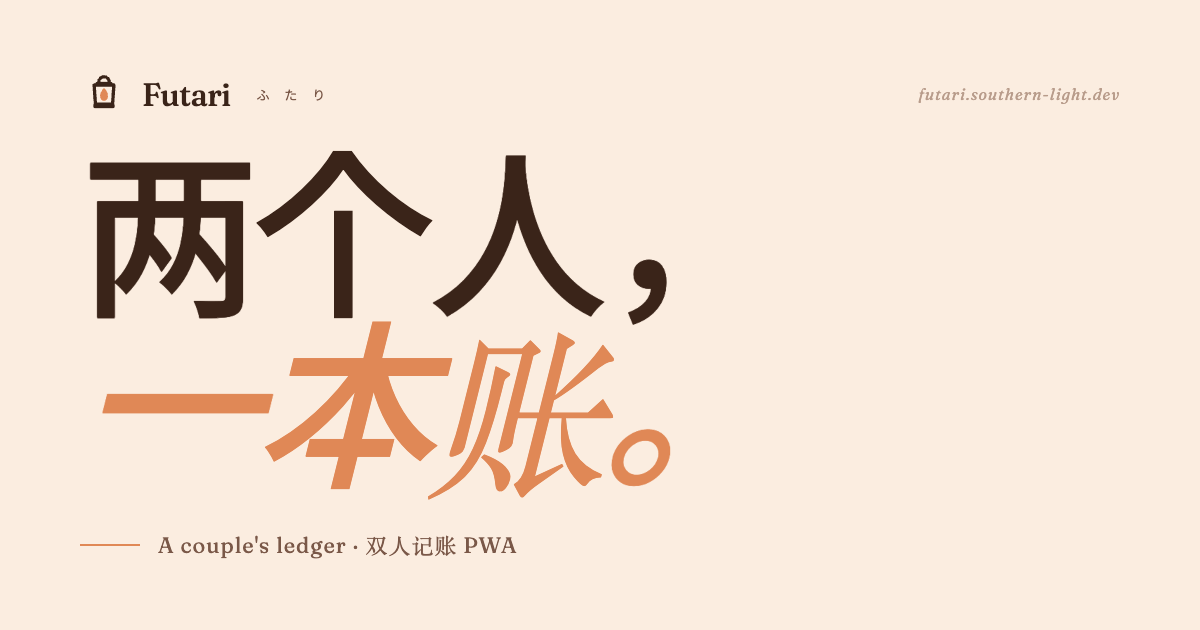
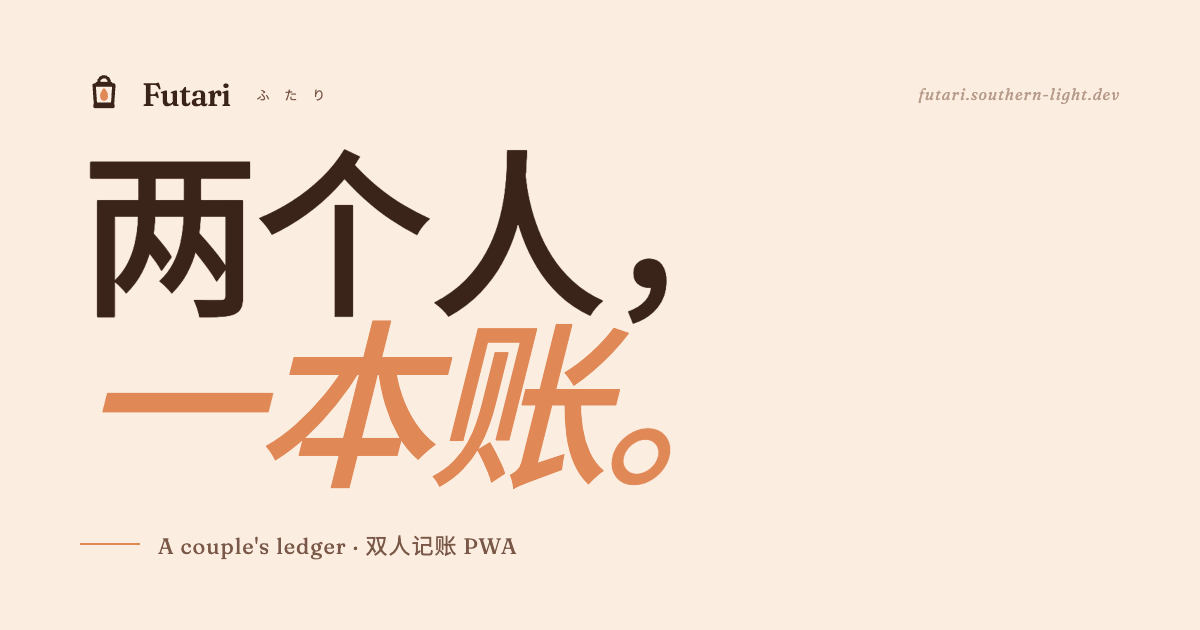
fix(seo): zh-CN og-image 標題掉字型（#1400 驗收）
新增的 og-image-zh-CN.png 中，账（U+8D26）落在 Noto Sans JP/TC 都沒有
覆蓋的簡體專屬字形上，Chrome 退回系統 Songti TC，導致標題同一行內
一半 sans、一半 serif。

- scripts/og/template.html：Google Fonts 連結加上 Noto Sans SC（同
  TC/JP 的 weight 400/500/600/700）；[data-lang="zh-CN"] 的 body /
  .headline / .sub-text font-family 把 Noto Sans SC 排到 Fraunces 之後
  第一順位；<html lang> 改成依 render target 動態設定（zh→zh-TW，
  zh-CN→zh-CN，en/ja 不變），不再寫死 zh-TW。
- 只重繪 og-image-zh-CN.png；zh-TW / en / ja 三張沒有重新產生，維持
  原 commit 內容不動——用 CDP getPlatformFontsForNode 確認 zh-CN 的
  .headline / .sub-text 現在只回報 isCustomFont:true 的 web font，
  沒有系統字形。

diff --git a/scripts/og/template.html b/scripts/og/template.html
@@ -5,7 +5,7 @@
   <title>Futari · OG render</title>
   <link rel="preconnect" href="https://fonts.googleapis.com" />
   <link rel="preconnect" href="https://fonts.gstatic.com" crossorigin />
-  <link rel="stylesheet" href="https://fonts.googleapis.com/css2?family=Fraunces:ital,opsz,wght@0,9..144,400;0,9..144,500;0,9..144,600;1,9..144,400;1,9..144,500&family=Noto+Sans+JP:wght@400;500;700&family=Noto+Sans+TC:wght@400;500;600;700&display=swap" />
+  <link rel="stylesheet" href="https://fonts.googleapis.com/css2?family=Fraunces:ital,opsz,wght@0,9..144,400;0,9..144,500;0,9..144,600;1,9..144,400;1,9..144,500&family=Noto+Sans+JP:wght@400;500;700&family=Noto+Sans+TC:wght@400;500;600;700&family=Noto+Sans+SC:wght@400;500;600;700&display=swap" />
   <style>
     /* All sizes scale via --s (CSS scale factor). The render script sets
      * --w / --h / --s and chooses layout via the body class. */
@@ -19,6 +19,9 @@
       position: relative;
       overflow: hidden;
       box-sizing: border-box;
+    }
+    body[data-lang="zh-CN"] {
+      font-family: 'Noto Sans SC', -apple-system, system-ui, sans-serif;
     }
     *::-webkit-scrollbar { display: none; }
     .fr { font-family: 'Fraunces', Georgia, serif; }
@@ -73,6 +76,9 @@
       letter-spacing: calc(-2px * var(--s));
       line-height: 1.0;
     }
+    body.wide[data-lang="zh-CN"] .headline {
+      font-family: 'Fraunces', 'Noto Sans SC', serif;
+    }
     body.wide .headline .accent { color: #E08856; font-style: italic; }
     body.wide .sub {
       display: flex; align-items: center;
@@ -88,6 +94,9 @@
       font-size: calc(22px * var(--s));
       color: #7A5848;
       letter-spacing: calc(1px * var(--s));
+    }
+    body.wide[data-lang="zh-CN"] .sub-text {
+      font-family: 'Fraunces', 'Noto Sans SC', serif;
     }
 
     /* —— Square layout (1200×1200) —— */
@@ -172,6 +181,12 @@
     const scale = parseFloat(params.get('s') || '1');
     const layout = params.get('layout') || 'wide';
     const lang = params.get('lang') || 'zh';
+
+    // BCP-47 tag for <html lang>, so Simplified text gets SC glyph shapes
+    // via :lang()-aware font matching instead of inheriting the file's
+    // hard-coded zh-TW default.
+    const HTML_LANG = { zh: 'zh-TW', 'zh-CN': 'zh-CN', en: 'en', ja: 'ja' };
+    document.documentElement.lang = HTML_LANG[lang] || 'zh-TW';
 
     document.body.style.setProperty('--w', w + 'px');
     document.body.style.setProperty('--h', h + 'px');
